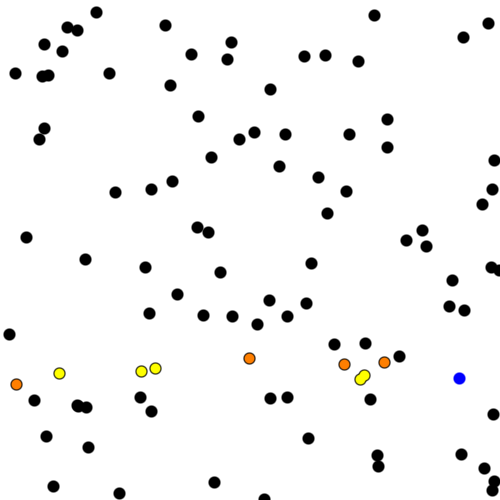
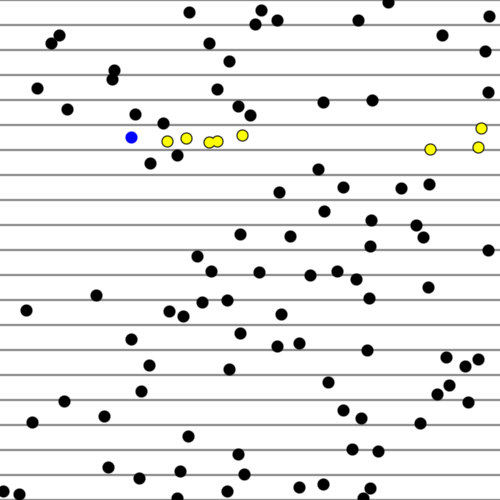
lunchtime progress

Changed region(s): [[0.0, 0.0, 1.0, 1.0]]

diff --git a/main.cpp b/main.cpp
@@ -1,8 +1,10 @@
 // Configurable settings
 #define DIMENSION() 2      // dimensionality of the data points
 #define NUMPOINTS() 100    // the number of randomly generated (white noise) data points
-#define HASHCOUNT() 4      // how many hashes are done for each point
+#define HASHCOUNT() 1      // how many hashes are done for each point
 #define POINTDOMAIN() 10   // the coordinates go from - this value to + this value
+
+// TODO: tune HASHCOUNT() and the other parameters!
 
 #include <random>
 #include <array>
@@ -27,6 +29,35 @@ typedef uint8_t uint8;
 enum class PointID : uint32 {};
 
 static const float c_pi = 3.14159265359f;
+
+// -------------------------------------------------------------------------------
+
+TPoint Multiply(const TPoint& point, const std::array<float, DIMENSION()*DIMENSION()>& matrix)
+{
+    TPoint ret;
+    for (int i = 0; i < DIMENSION(); ++i)
+    {
+        int rowOffset = i * DIMENSION();
+
+        ret[i] = 0.0f;
+        for (int j = 0; j < DIMENSION(); ++j)
+            ret[i] += point[j] * matrix[rowOffset + j];
+    }
+    return ret;
+}
+
+// -------------------------------------------------------------------------------
+
+std::array<float, DIMENSION()*DIMENSION()> Transpose(const std::array<float, DIMENSION()*DIMENSION()>& matrix)
+{
+    std::array<float, DIMENSION()*DIMENSION()> ret;
+
+    for (int i = 0; i < DIMENSION(); ++i)
+        for (int j = 0; j < DIMENSION(); ++j)
+            ret[i * DIMENSION() + j] = matrix[j * DIMENSION() + i];
+
+    return ret;
+}
 
 // -------------------------------------------------------------------------------
 
@@ -85,22 +116,18 @@ public:
         return m_points[(uint32)point];
     }
 
+    const PointHashData& GetPointHashData (int hashIndex) const
+    {
+        return m_pointHashDatas[hashIndex];
+    }
+
 private:
 
     int HashPoint (const TPoint& point, int hashIndex) const
     {
         // calculate the hash of the point by rotating it, adding to it's x component and flooring that x component.
         const PointHashData& pointHashData = m_pointHashDatas[hashIndex];
-
-        TPoint rotatedPoint;
-        for (int i = 0; i < DIMENSION(); ++i)
-        {
-            int rowOffset = i * DIMENSION();
-
-            rotatedPoint[i] = 0.0f;
-            for (int j = 0; j < DIMENSION(); ++j)
-                rotatedPoint[i] += point[j] * pointHashData.rotation[rowOffset + j];
-        }
+        TPoint rotatedPoint = Multiply(point, pointHashData.rotation);
         return (int)std::floorf(rotatedPoint[0] + pointHashData.offsetX);
     }
 
@@ -169,7 +196,7 @@ void GeneratePointHashDatas_WhiteNoise(std::array<PointHashData, HASHCOUNT()>& h
         p.rotation = { cosTheta, -sinTheta,
                        sinTheta,  cosTheta };
 
-        p.offsetX = dist_offset(RNG());
+        p.offsetX = 0.0f;// dist_offset(RNG());
     }
 }
 
@@ -199,7 +226,8 @@ void GeneratePointHashDatas_Uniform(std::array<PointHashData, HASHCOUNT()>& hash
         float percentX = (float(x) + 0.5f) / float(size);
         float percentY = (float(y) + 0.5f) / float(size);
 
-        float angle = percentX * 2.0f * c_pi;
+        // choose an angle from 0 to 180 degrees, because angle > 180 degrees is redundant.
+        float angle = percentX * c_pi;
 
         float cosTheta = std::cosf(angle);
         float sinTheta = std::sinf(angle);
@@ -207,7 +235,7 @@ void GeneratePointHashDatas_Uniform(std::array<PointHashData, HASHCOUNT()>& hash
         p.rotation = { cosTheta, -sinTheta,
                        sinTheta,  cosTheta };
 
-        p.offsetX = percentY;
+        p.offsetX = 0.0f;// percentY;
     }
 }
 
@@ -262,7 +290,39 @@ void DrawCircle(std::vector<uint8>& pixels, int imageWidth, int imageHeight, int
 
 // -------------------------------------------------------------------------------
 
-void ReportQueryAsImage(const TPoint& queryPoint, const std::unordered_map<PointID, int>& results, const std::vector<TPoint>& points, const char* name)
+void DrawHashBuckets(std::vector<uint8>& pixels, int imageWidth, int imageHeight, float cellSize, const PointHashData& pointHashData, uint8 R, uint8 G, uint8 B)
+{
+    uint8* pixel = pixels.data();
+    for (int iy = 0; iy < imageHeight; ++iy)
+    {
+        for (int ix = 0; ix < imageWidth; ++ix)
+        {
+            // transform pixel into the hash bucket space
+            TPoint rawPoint = {float(ix), float(iy)};
+            TPoint rotatedPoint = Multiply(rawPoint, pointHashData.rotation);
+            rotatedPoint[0] += pointHashData.offsetX;
+
+            // figure out the distance from this rotated point to the edges of the hash bucket
+            float cellPosX;
+            if (rotatedPoint[0] < 0.0f)
+                cellPosX = cellSize - fmodf(fabsf(rotatedPoint[0]) + 0.5f, cellSize);
+            else
+                cellPosX = fmodf(rotatedPoint[0] + 0.5f, cellSize);
+            float distance = cellSize / 2.0f - fabsf(cellPosX - cellSize / 2.0f);
+
+            // draw the hash bucket lines
+            float alpha = SmoothStep(distance, 2.0f, 0.0f);
+            pixel[0] = Lerp(pixel[0], R, alpha);
+            pixel[1] = Lerp(pixel[1], G, alpha);
+            pixel[2] = Lerp(pixel[2], B, alpha);
+            pixel += 4;
+        }
+    }
+}
+
+// -------------------------------------------------------------------------------
+
+void ReportQueryAsImage(const LHS& lhs, const TPoint& queryPoint, const std::unordered_map<PointID, int>& results, const std::vector<TPoint>& points, const char* name)
 {
     static_assert(DIMENSION() == 2, "This function only works with 2d points");
 
@@ -273,9 +333,18 @@ void ReportQueryAsImage(const TPoint& queryPoint, const std::unordered_map<Point
     int height = 500;
     int circleRadius = int(float(width) / 100.0f);
     int colorCircleRadius = std::min(int(float(width) / 100.0f * 0.9f), circleRadius - 1);
+
+    // create the image and fill it with white
     std::vector<uint8> pixels;
     pixels.resize(width*height * 4);
     std::fill(pixels.begin(), pixels.end(), 255);
+
+    // draw the hash buckets
+    for (int hashIndex = 0; hashIndex < HASHCOUNT(); ++hashIndex)
+    {
+        const PointHashData& pointHashData = lhs.GetPointHashData(hashIndex);
+        DrawHashBuckets(pixels, width, height, float(width) * 0.5f / float(POINTDOMAIN()), pointHashData, 128, 128, 128);
+    }
 
     // draw all the points as black dots
     for (TPoint p : points)
@@ -326,8 +395,6 @@ void ReportQueryAsImage(const TPoint& queryPoint, const std::unordered_map<Point
         DrawCircle(pixels, width, height, x, y, circleRadius, 0, 0, 255);
     }
 
-    // TODO: draw the cells. how?
-
     stbi_write_png(fileName, width, height, 4, pixels.data(), 0);
 }
 
@@ -359,7 +426,7 @@ void ReportQuery (const LHS& lhs, const TPoint& queryPoint, const std::vector<TP
         }
     }
 
-    ReportQueryAsImage(queryPoint, results, points, name);
+    ReportQueryAsImage(lhs, queryPoint, results, points, name);
 }
 
 // -------------------------------------------------------------------------------
@@ -399,15 +466,24 @@ int main(int argc, char** argv)
     return 0;
 }
 
+// TODO: it seems like the grid lines may be wrong sometimes even with no x offset. check out the white noise screenshot checked in. It probably has to do with where it goes negative. the distance calculation is probably wrong...
+
 /*
 
+TODO:
+* make the offset work with grid drawing. I think it has something to do with how we floor it when we use it for points so it's a randomized rounding? dunno. also seems to maybe happen when the point is a negative number?
+* need a minimum hash count i think. make a #define
+* maybe an option to color cells based on how many hash collisions they have with the query point
+? is the grid line at 0 thinner? i think it is... why?
+
 * do we need the full matrix? i don't think so, if we are only takiung the resulting x component!
+ * maybe we don't care
 
 Tests:
 * white noise
 * uniform
 * blue noise
-* LDS (golden ratio?)
+* LDS (golden ratio?) - yes. generalized golden ratio. http://extremelearning.com.au/unreasonable-effectiveness-of-quasirandom-sequences/
 * compare vs linear search to get ground truth
 
 * Some way to gather stats, but also want to make diagrams i think. Maybe some animated like the other blog post does?
